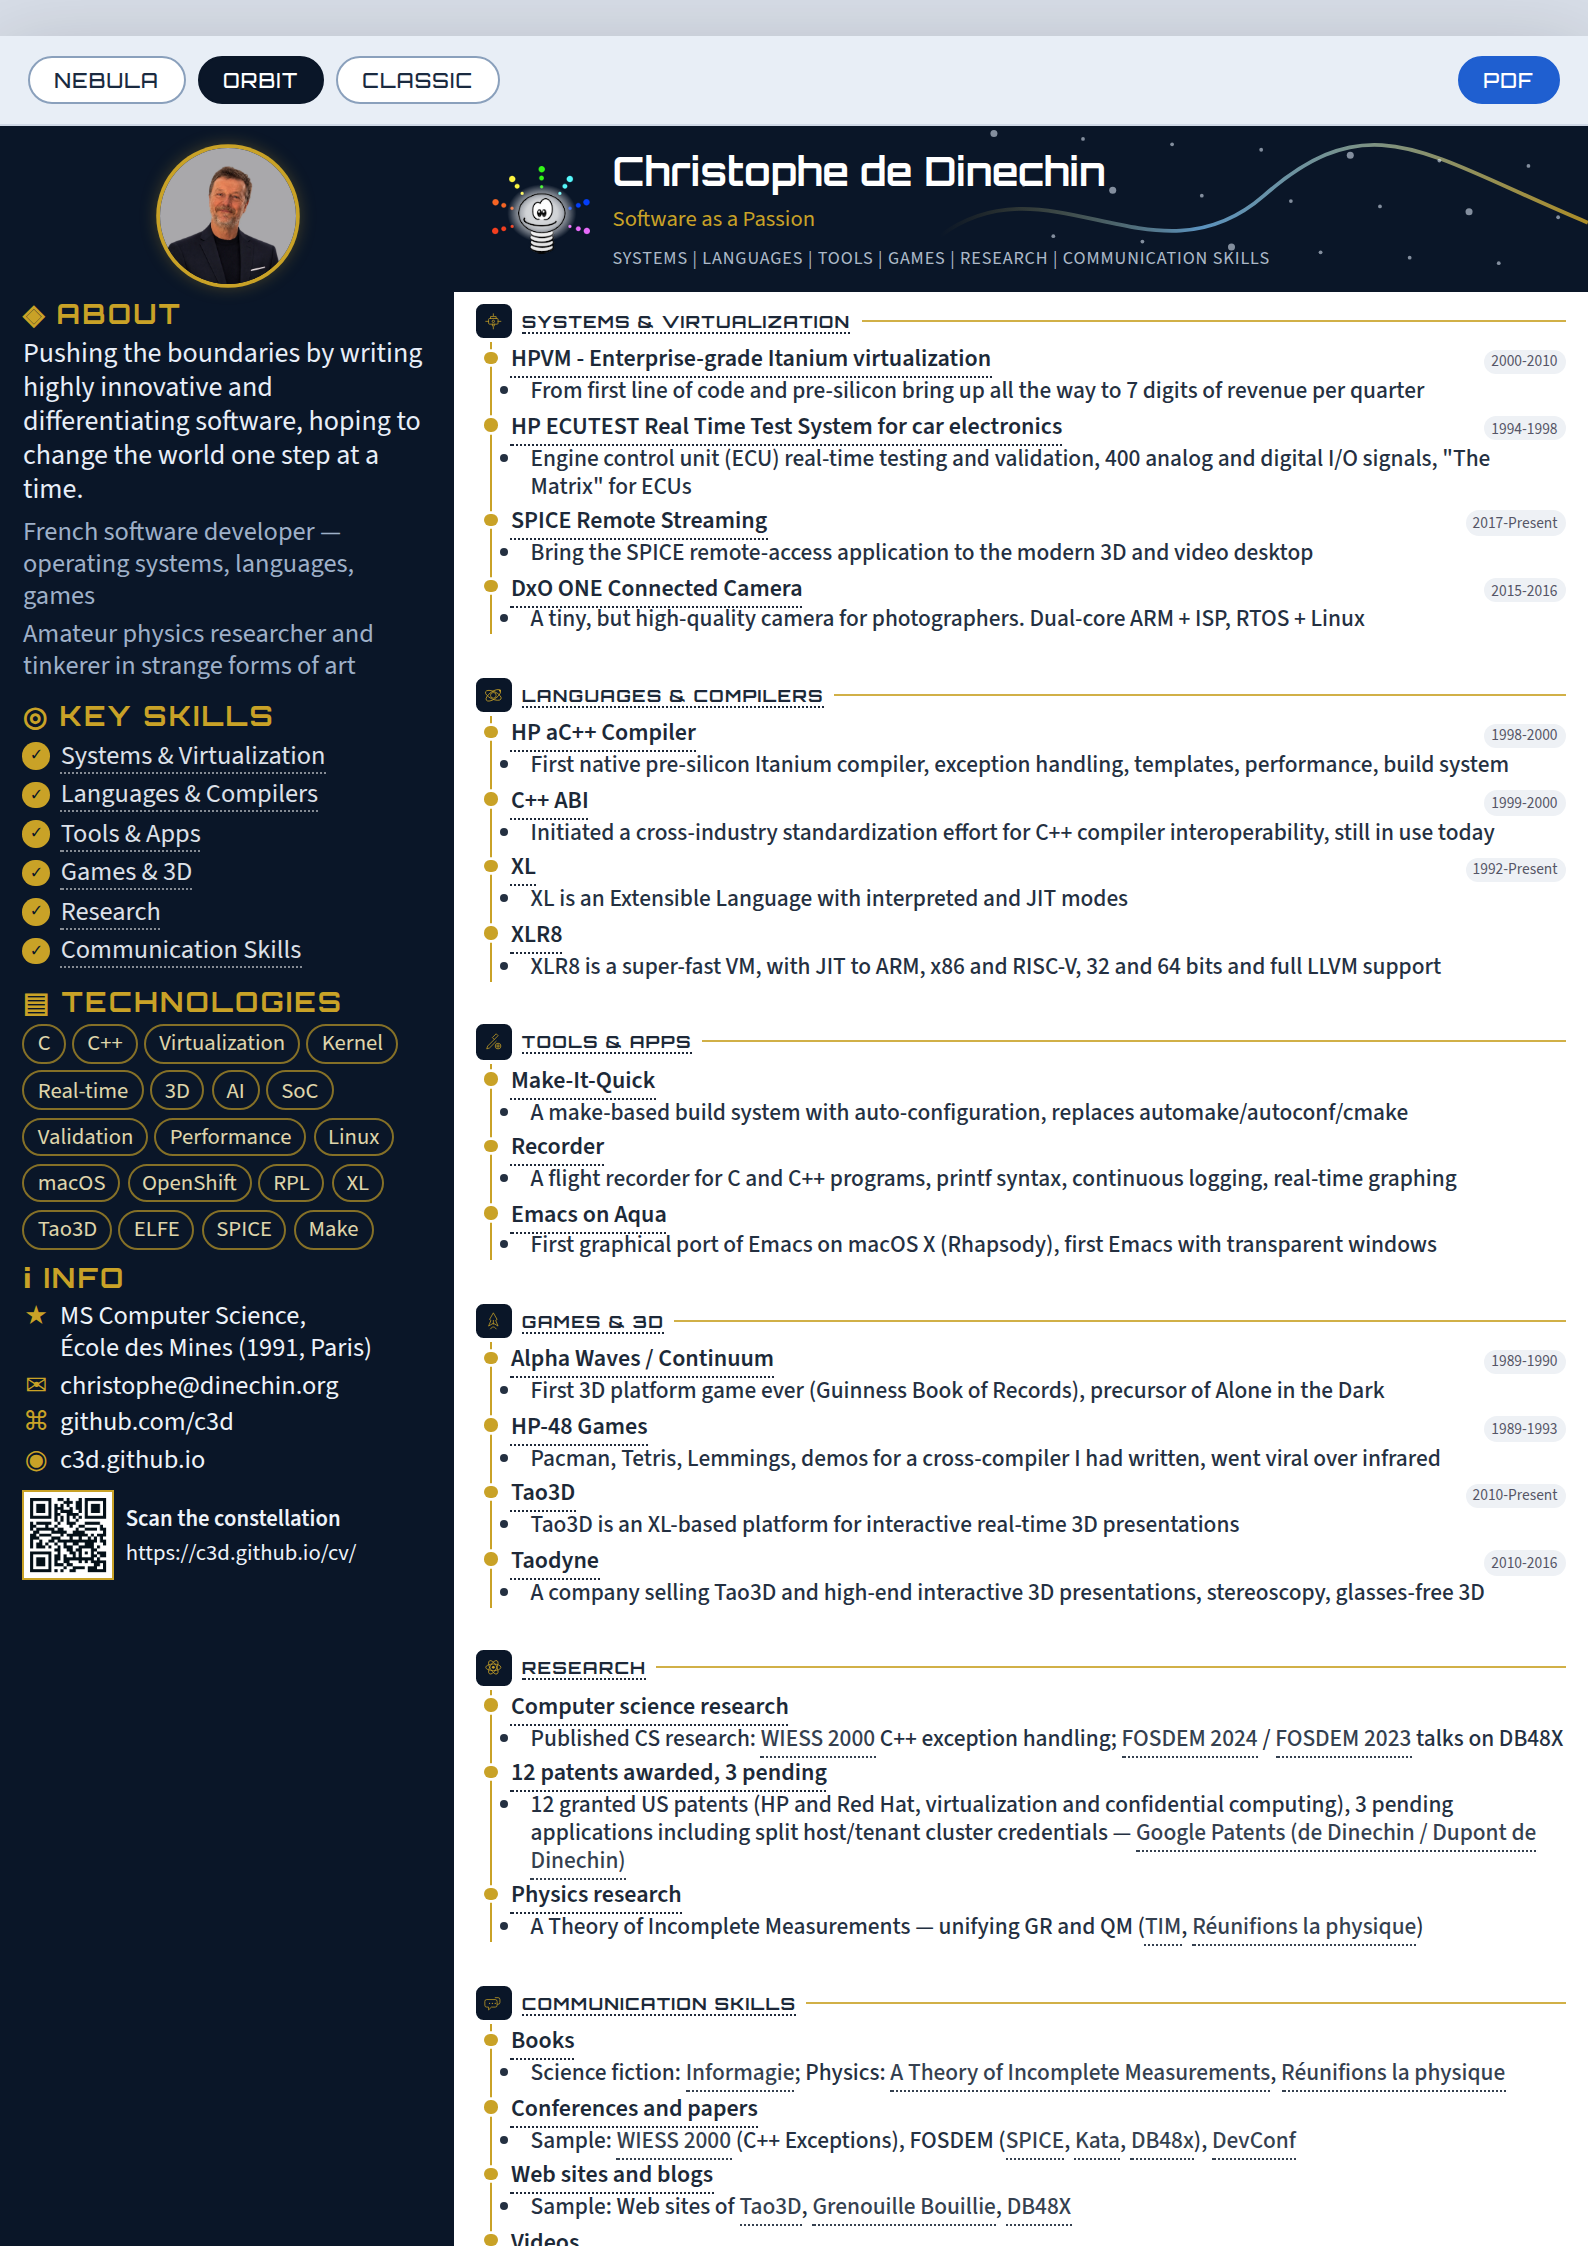
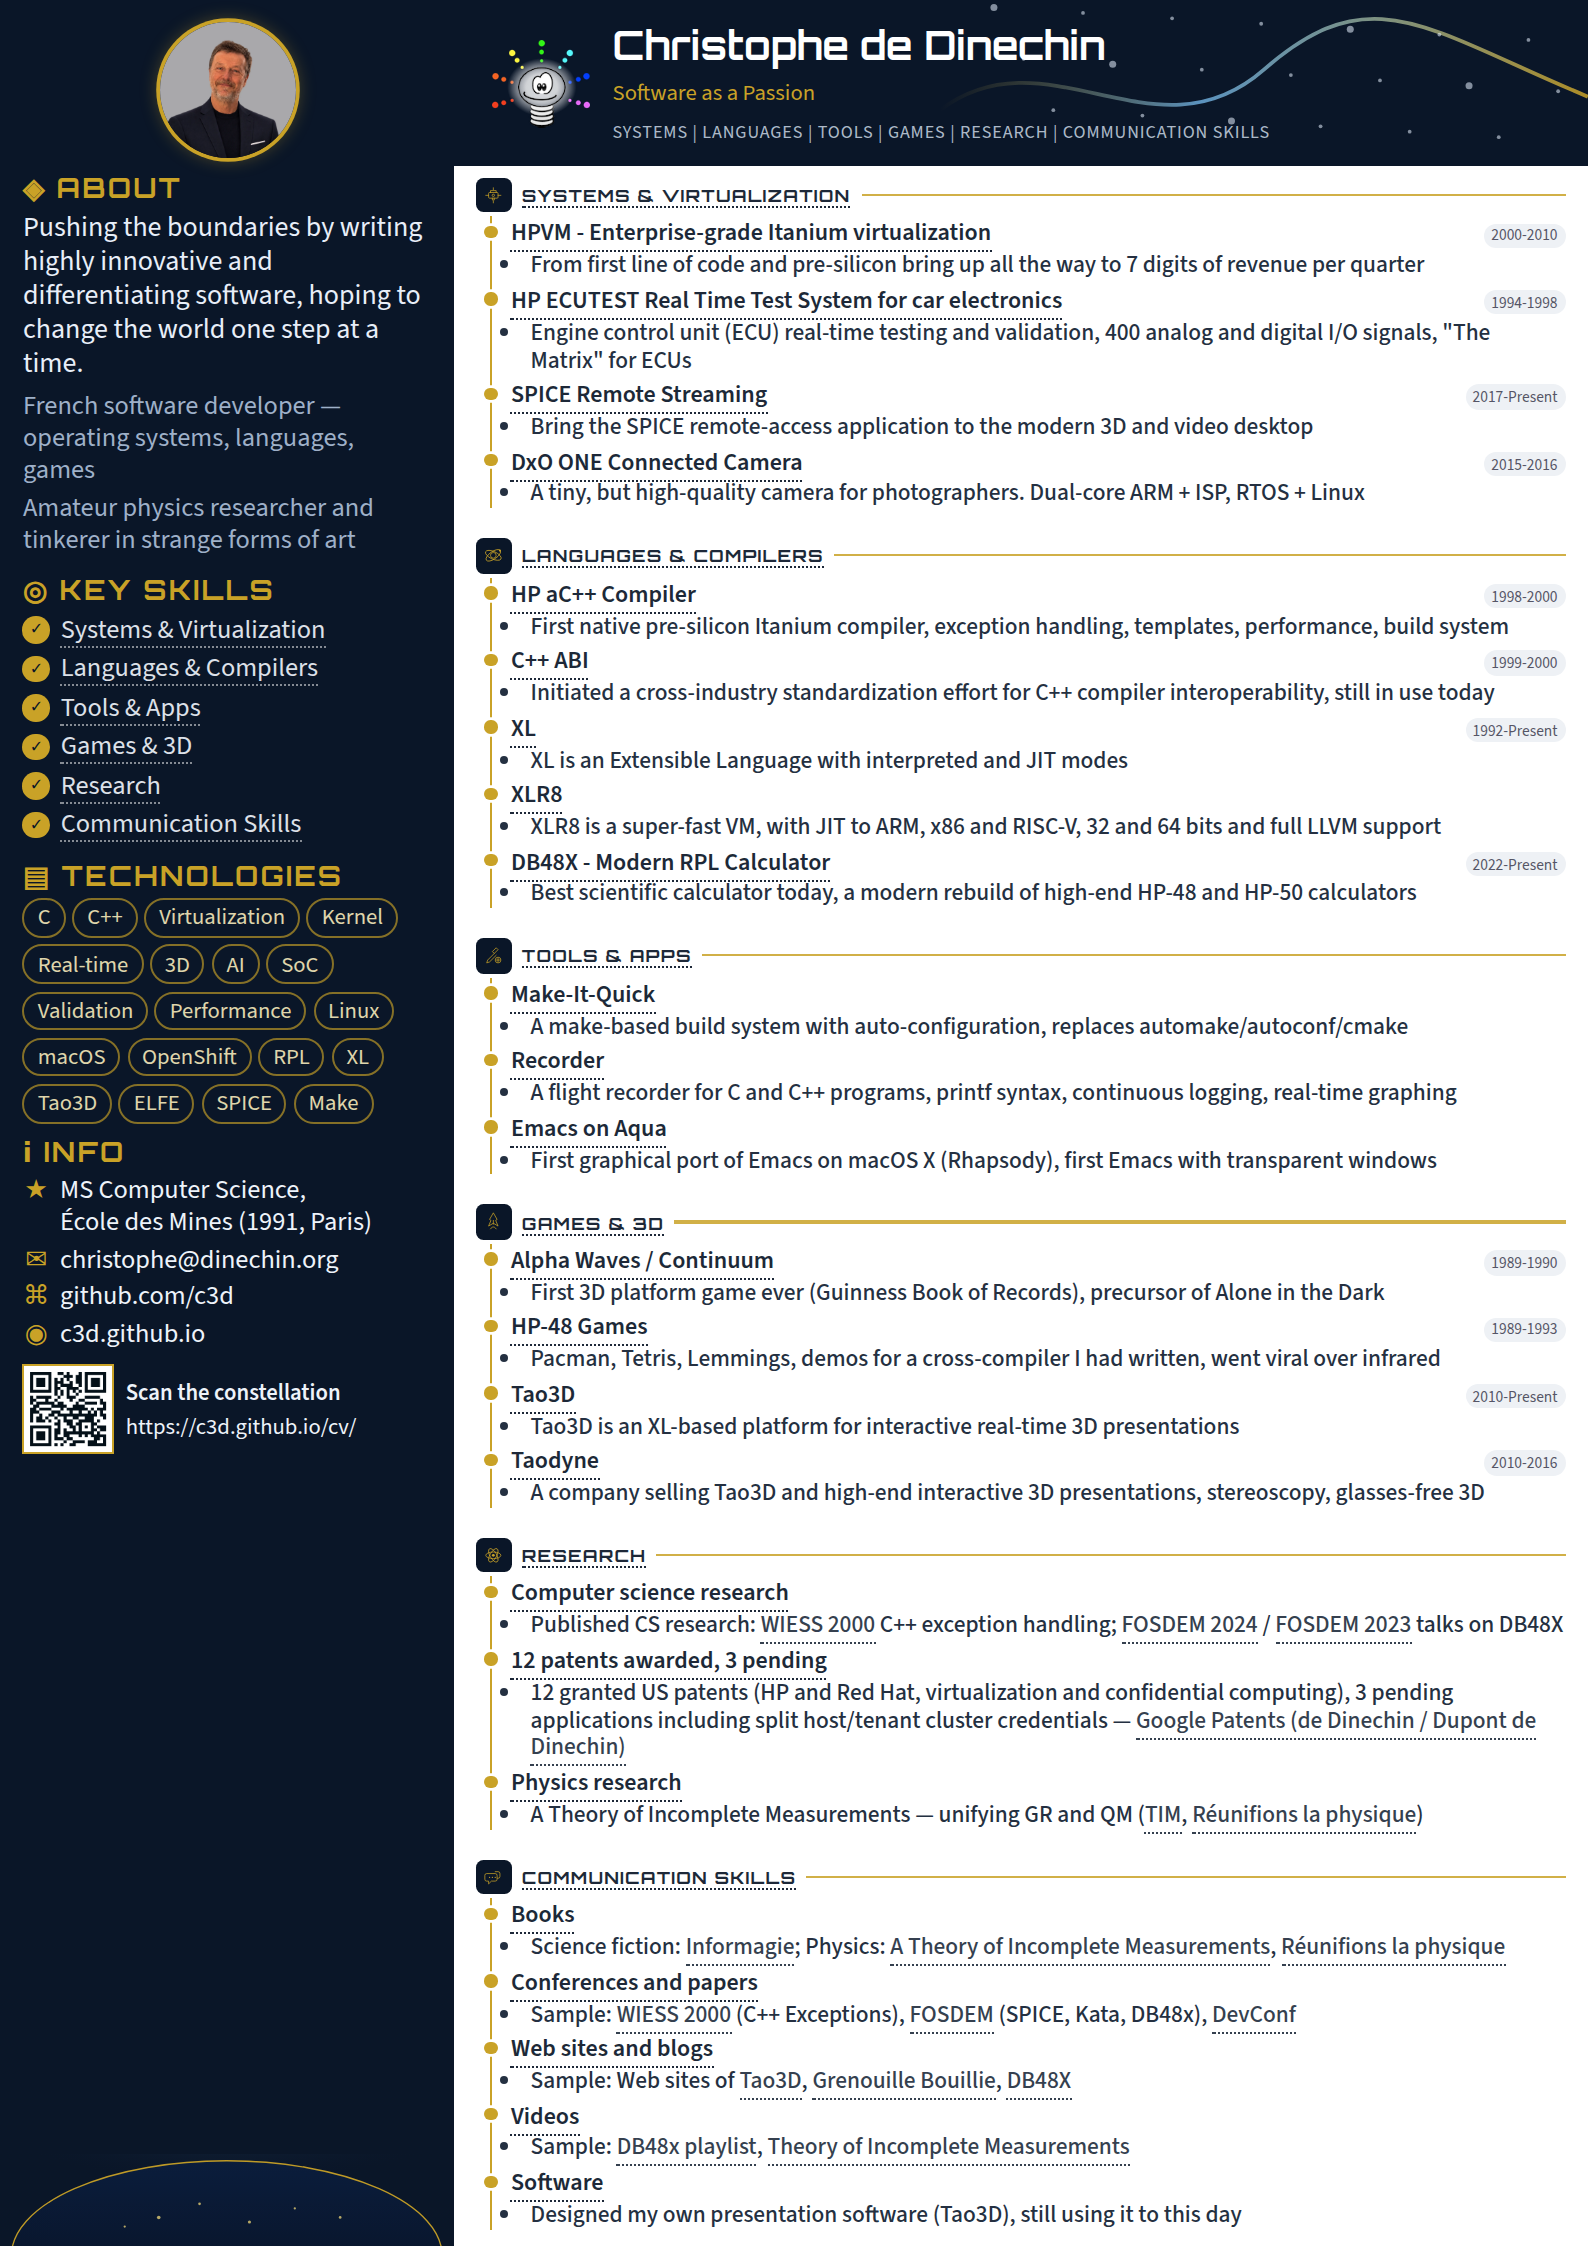
Restore DB48X print card; fix conference links; full-sheet shots
Put DB48X back in Languages after XLR8 with the requested bullet.
Link FOSDEM (not SPICE/Kata) to the DB48X FOSDEM talk and DevConf
to the 2023 confidential-computing talk. Raise maxProjects to 5;
page still fits one A4 without further spacing cuts.

Changed region(s): [[0.0, 0.0, 1.0, 1.0]]

diff --git a/cv-source/src/print/model.js b/cv-source/src/print/model.js
@@ -17,9 +17,6 @@ const FOSDEM_2024_URL = 'https://fosdem.org/2024/schedule/event/fosdem-2024-1990
 const FOSDEM_2023_URL = 'https://fosdem.org/2023/schedule/event/reversepolishlisp/';
 const DEVCONF_2023_URL =
   'https://devconfcz2023.sched.com/event/1MYgS/confidential-computing-from-host-to-workload';
-const DEVCONF_SPICE_URL = 'https://devconfcz2019.sched.com/event/JclE/spice-smart-streaming';
-const DEVCONF_KATA_URL =
-  'https://devconfcz2020a.sched.com/event/YOnz/kata-containers-and-qemu-mini-in-fedora';
 const TIM_URL = 'https://c3d.github.io/TIM/';
 const REUNIFIONS_URL = 'https://www.amazon.fr/dp/B0C5GQTWTQ';
 const INFORMAGIE_URL = 'https://www.amazon.fr/Informagie-Roman-danticipation-ou-pas/dp/169985081X';
@@ -69,6 +66,12 @@ const PRINT_COPY = {
   xlr8: {
     bullets: [
       'XLR8 is a super-fast VM, with JIT to ARM, x86 and RISC-V, 32 and 64 bits and full LLVM support'
+    ]
+  },
+  db48x: {
+    title: 'DB48X - Modern RPL Calculator',
+    bullets: [
+      'Best scientific calculator today, a modern rebuild of high-end HP-48 and HP-50 calculators'
     ]
   },
   'make-it-quick': {
@@ -149,7 +152,7 @@ function communicationPrintProjects() {
       title: 'Conferences and papers',
       years: '',
       bullets: [
-        `Sample: ${deepLink(WIESS_URL, 'WIESS 2000')} (C++ Exceptions), FOSDEM (${deepLink(DEVCONF_SPICE_URL, 'SPICE')}, ${deepLink(DEVCONF_KATA_URL, 'Kata')}, ${deepLink(FOSDEM_2023_URL, 'DB48x')}), ${deepLink(DEVCONF_2023_URL, 'DevConf')}`
+        `Sample: ${deepLink(WIESS_URL, 'WIESS 2000')} (C++ Exceptions), ${deepLink(FOSDEM_2023_URL, 'FOSDEM')} (SPICE, Kata, DB48x), ${deepLink(DEVCONF_2023_URL, 'DevConf')}`
       ]
     },
     {
@@ -208,7 +211,7 @@ function applyPrintCopy(project) {
 export function buildPrintModel(data, {
   themeOrder,
   printColors,
-  maxProjects = 4,
+  maxProjects = 5,
   maxBullets = 1
 } = {}) {
   const about = data.find((d) => d.role === 'about' || d.id === 'intro');

diff --git a/cv-source/content/db48x.md b/cv-source/content/db48x.md
@@ -4,6 +4,7 @@ title: DB48X - Modern RPL Calculator
 theme: Languages & Compilers
 years: 2022-Present
 weight: 9
+print: 5
 related:
   - hp48-games
   - hpds
